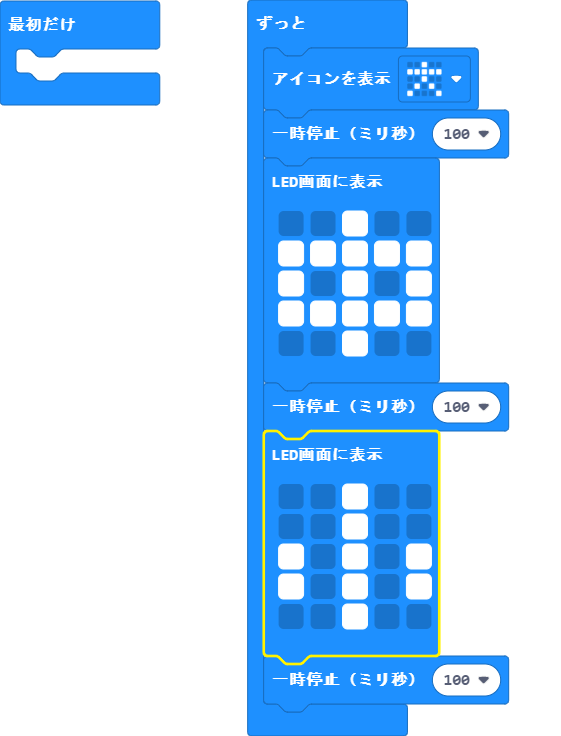
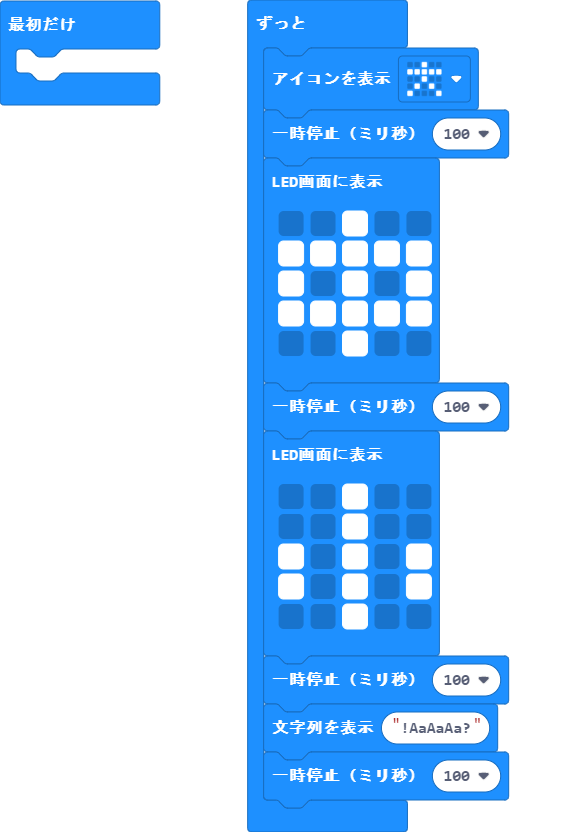
更新 main.blocks, main.ts

Changed region(s): [[0.4545, 0.0, 0.9091, 0.9688], [0.0, 0.0, 0.303, 0.1562]]

diff --git a/main.ts b/main.ts
@@ -17,4 +17,6 @@ basic.forever(function () {
         . . # . .
         `)
     basic.pause(100)
+    basic.showString("!AaAaAa?")
+    basic.pause(100)
 })
